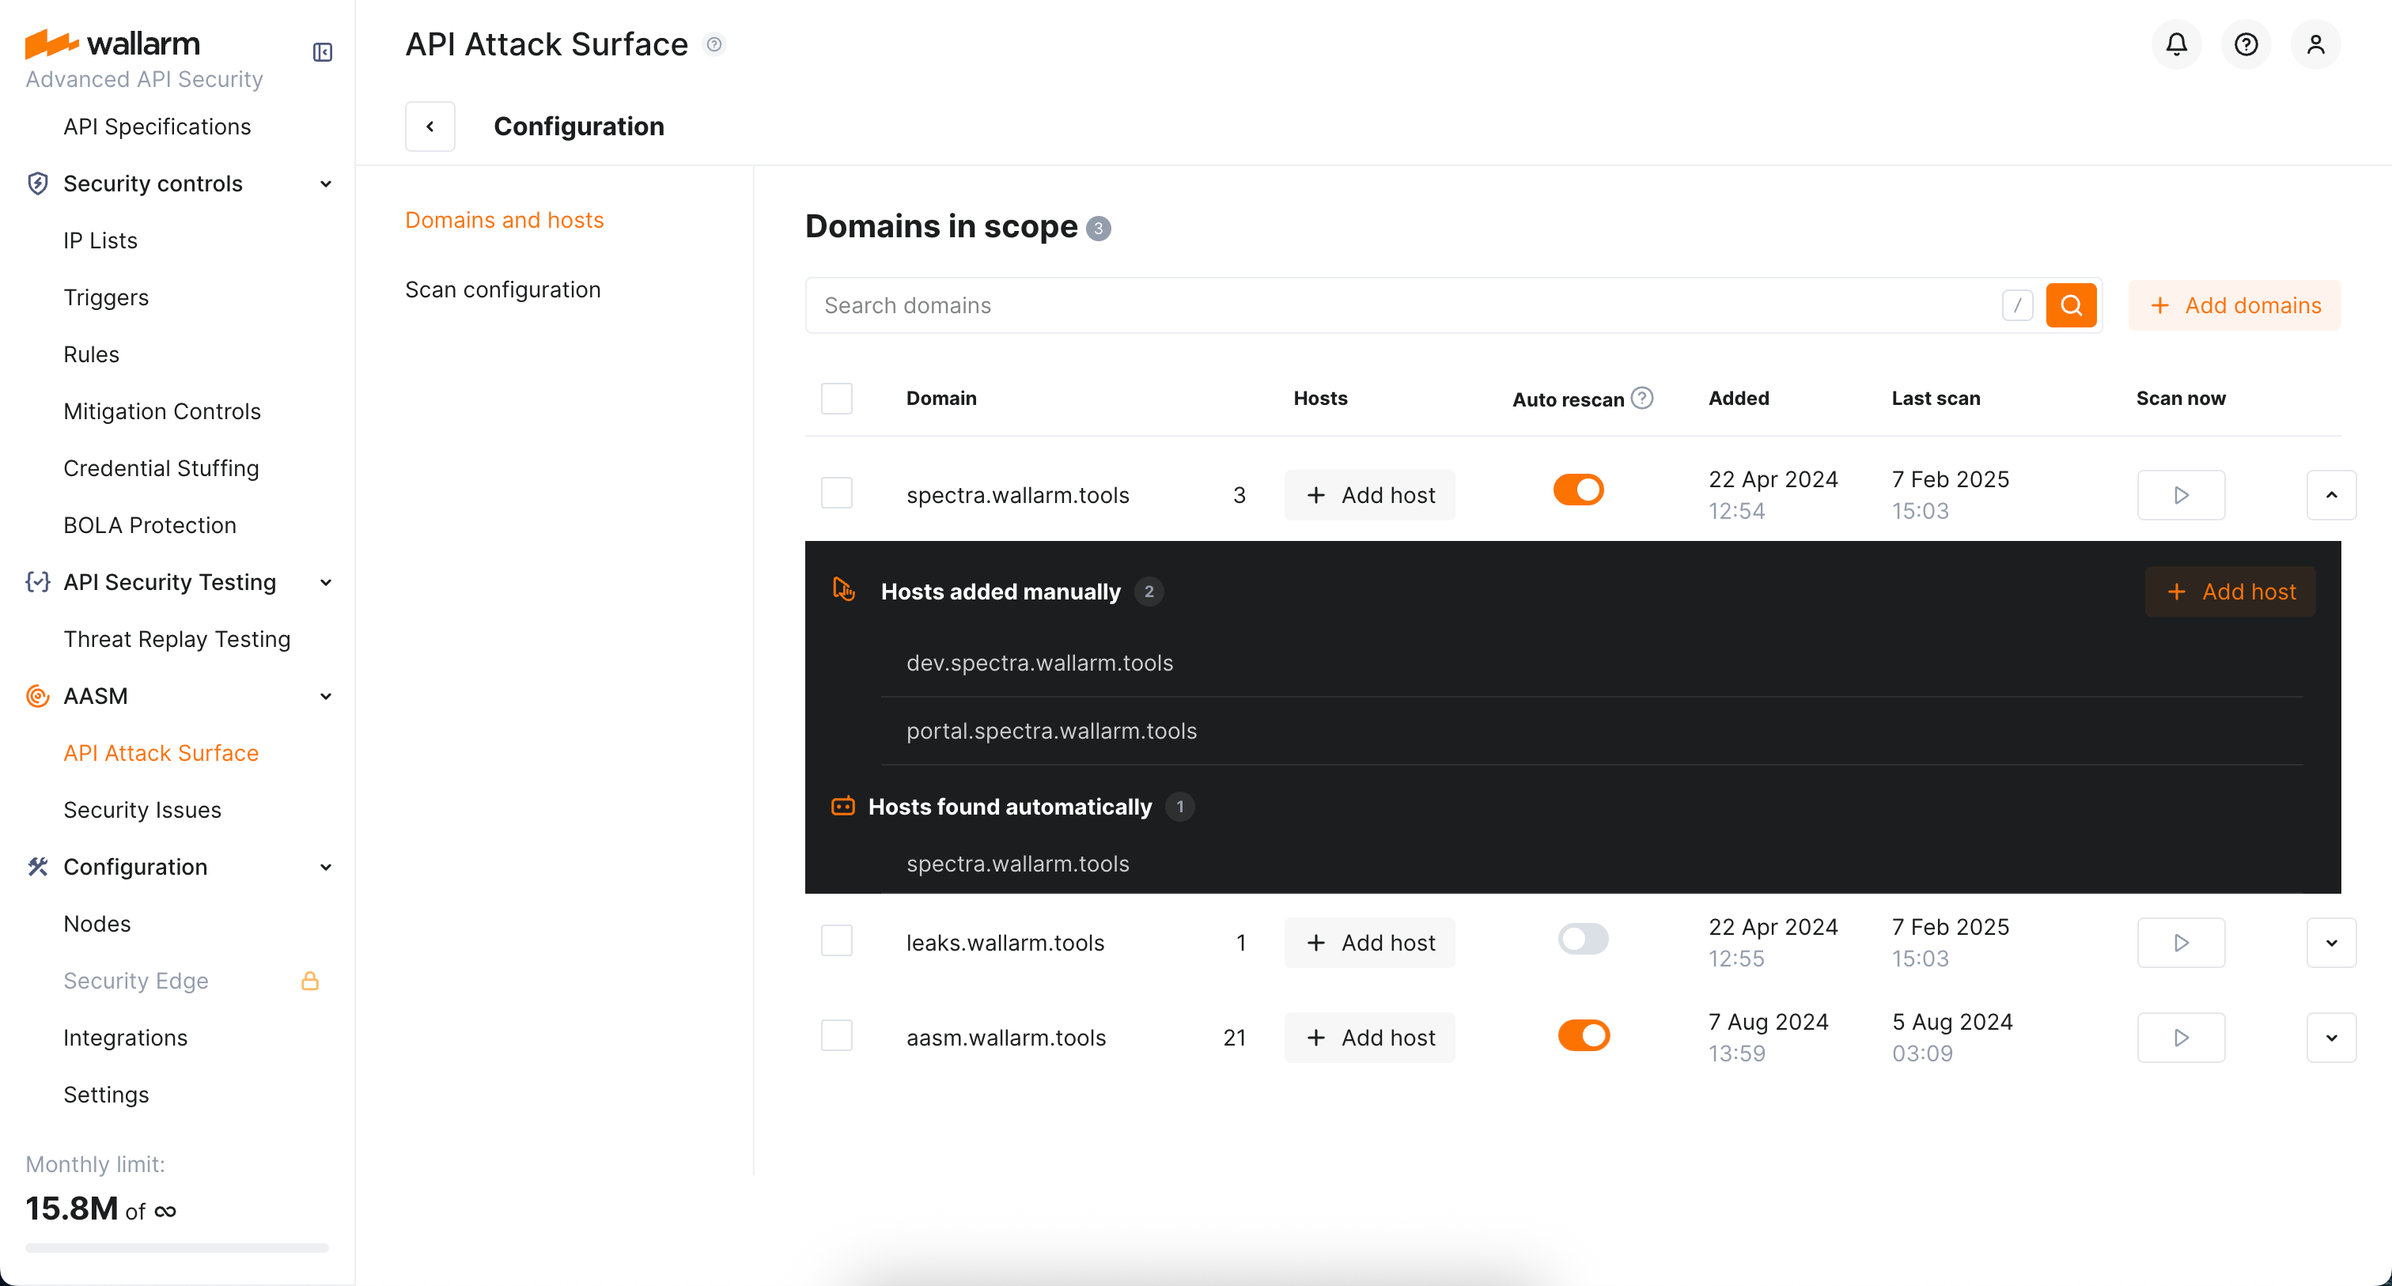
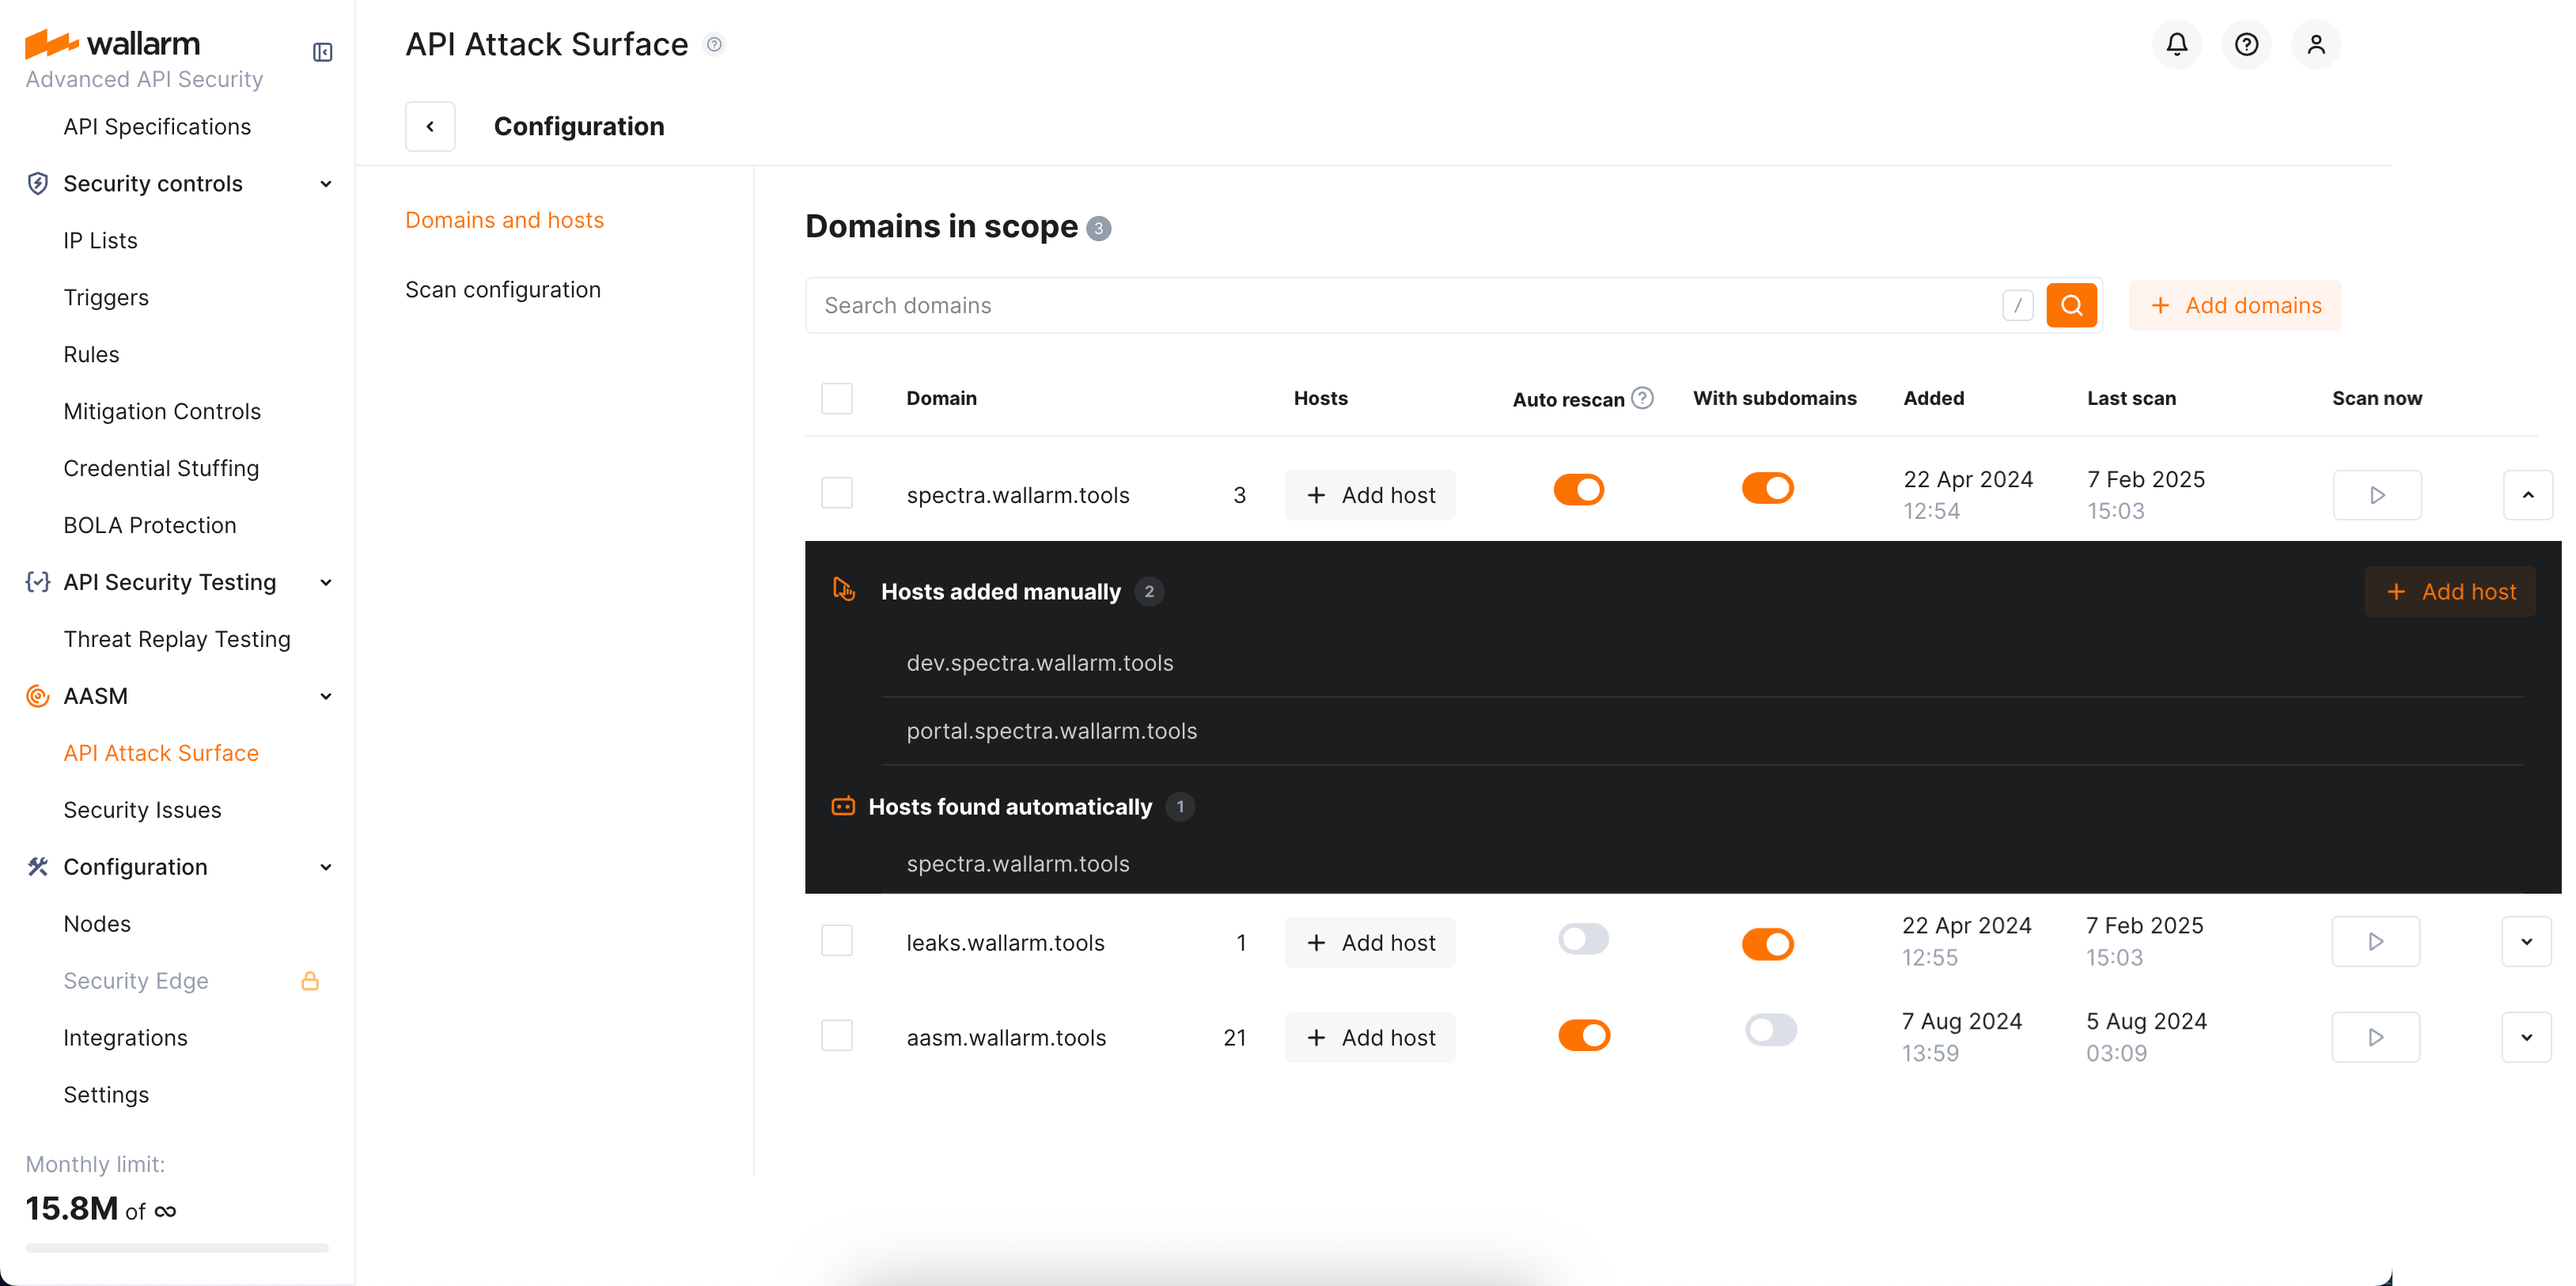
DOCS-3320 New features in AASM

diff --git a/docs/latest/api-attack-surface/security-issues.md b/docs/latest/api-attack-surface/security-issues.md
@@ -50,7 +50,11 @@ Wallarm automatically detects the following security issues:
 
 ## Issue details and lifecycle
 
-Wallarm provides detailed information on each detected security issues to allow clear understanding of what is happening and what can be done. Click the issue in the list to open its details, such as:
+Wallarm provides detailed information on each detected security issues to allow clear understanding of what is happening and what can be done. 
+
+### Issue details
+
+Click the issue in the list to open its details, such as:
 
 * Basic info (type, host and url, first and last seen time)
 * Detailed **Description**
@@ -59,7 +63,7 @@ Wallarm provides detailed information on each detected security issues to allow 
 
 ![Security issues details - Details](../images/api-attack-surface/security-issue-details.png)
 
-**Issue lifecycle**
+### Issue lifecycle
 
 Once a security issue is detected, it obtains the **Open** status meaning some measures are required to mitigate it. In the issue details, you can close it (means it was resolved) or mark as false.
 
@@ -73,11 +77,23 @@ Security issues can be closed by Wallarm automatically after next [automatic](se
 * Vulnerable version no longer present
 * Vulnerability not detected during last scan
 
-Issues can be re-opened automatically after next rescan or manually. Note that issues marked as false are never re-opened automatically. For you to be on track, the full history of status changes with comments is displayed in the **Status history** section.
+Issues can be re-opened automatically after next rescan or manually. Note that issues marked as false are never re-opened automatically.
 
 ![Security issues - lifecycle diagram](../images/api-attack-surface/security-issue-lifecycle.png)
 
-You can also re-evaluate and adjust the [risk level](#issue-risk-level) of the issue.
+### Changing risk level
+
+If you re-evaluate the [risk level](#issue-risk-level) of the issue, go to its details and select new risk level from the list.
+
+### Adding comments
+
+While it is always useful to provide comment on status change (closing, re-opening), you can add any comments to the issue at any moment without changing anything else. To do so, use the **Add comment** button: your comment will become the part of **Status history**.
+
+### Status history
+
+For you to be on track, the full history of changes and comments is displayed in the **Status history** section of the security issue.
+
+![Security issues - lifecycle diagram](../images/api-attack-surface/aasm-sec-issue-history.png)
 
 ## Issue risk level
 

diff --git a/docs/latest/api-attack-surface/setup.md b/docs/latest/api-attack-surface/setup.md
@@ -18,7 +18,9 @@ To use AASM, the Wallarm's [API Attack Surface](../about-wallarm/subscription-pl
 
 * If you already have Wallarm account, contact [sales@wallarm.com](mailto:sales@wallarm.com).
 
-## Adding domains and hosts
+## Domains and hosts
+
+### Adding to scope
 
 To configure [API Attack Surface Management](overview.md) to detect hosts under your selected domains and search for security issues related to these hosts:
 
@@ -32,9 +34,23 @@ To configure [API Attack Surface Management](overview.md) to detect hosts under 
 
     ![AASM - configuring scope](../images/api-attack-surface/aasm-scope.png)
 
+### Deleting from scope
+
+You can delete domains from the scope. On deletion, all hosts previously detected and manually added for this domain will be removed from the list:
+
+1. At the **Domains and hosts** tab, select domain(s) with checkboxes and click **Delete**.
+1. As there can be the security issues found for these domains, you need to decide what to do with them. Options are:
+
+    * Keep related security issues 
+    * Close related security issues
+    * Mark false related security issues
+    * Delete related security issues
+
 ## Scan configuration
 
 You can select which data related to your domains will be searched for and displayed by [API Attack Surface Management](overview.md).
+
+### General configuration
 
 For your convenience, Wallarm provides a set of predefined profiles for scan configuration. Try switching between profiles to understand their content.
 
@@ -59,6 +75,15 @@ To configure scanning options:
 
     !!! warning "Do not lose your modification while editing"
         Remember that whatever changes you made in options, they will be lost if you click one of standard profiles again.
+
+### Subdomain discovery
+
+When subdomain discovery is enabled in your configuration (**Scan configuration** → **Scanning profile** → **Network service discovery** → **Subdomain discovery**), you can adjust this option per domain. To do so:
+
+1. Go to the **Domains and hosts** tab.
+1. Turn off/on the **With subdomains** option for your domains.
+
+    Note that global option has priority - when disabled, subdomains are not searched anywhere. When globally enabled, per-domain options allow making exceptions.
 
 ## Auto rescan
 
